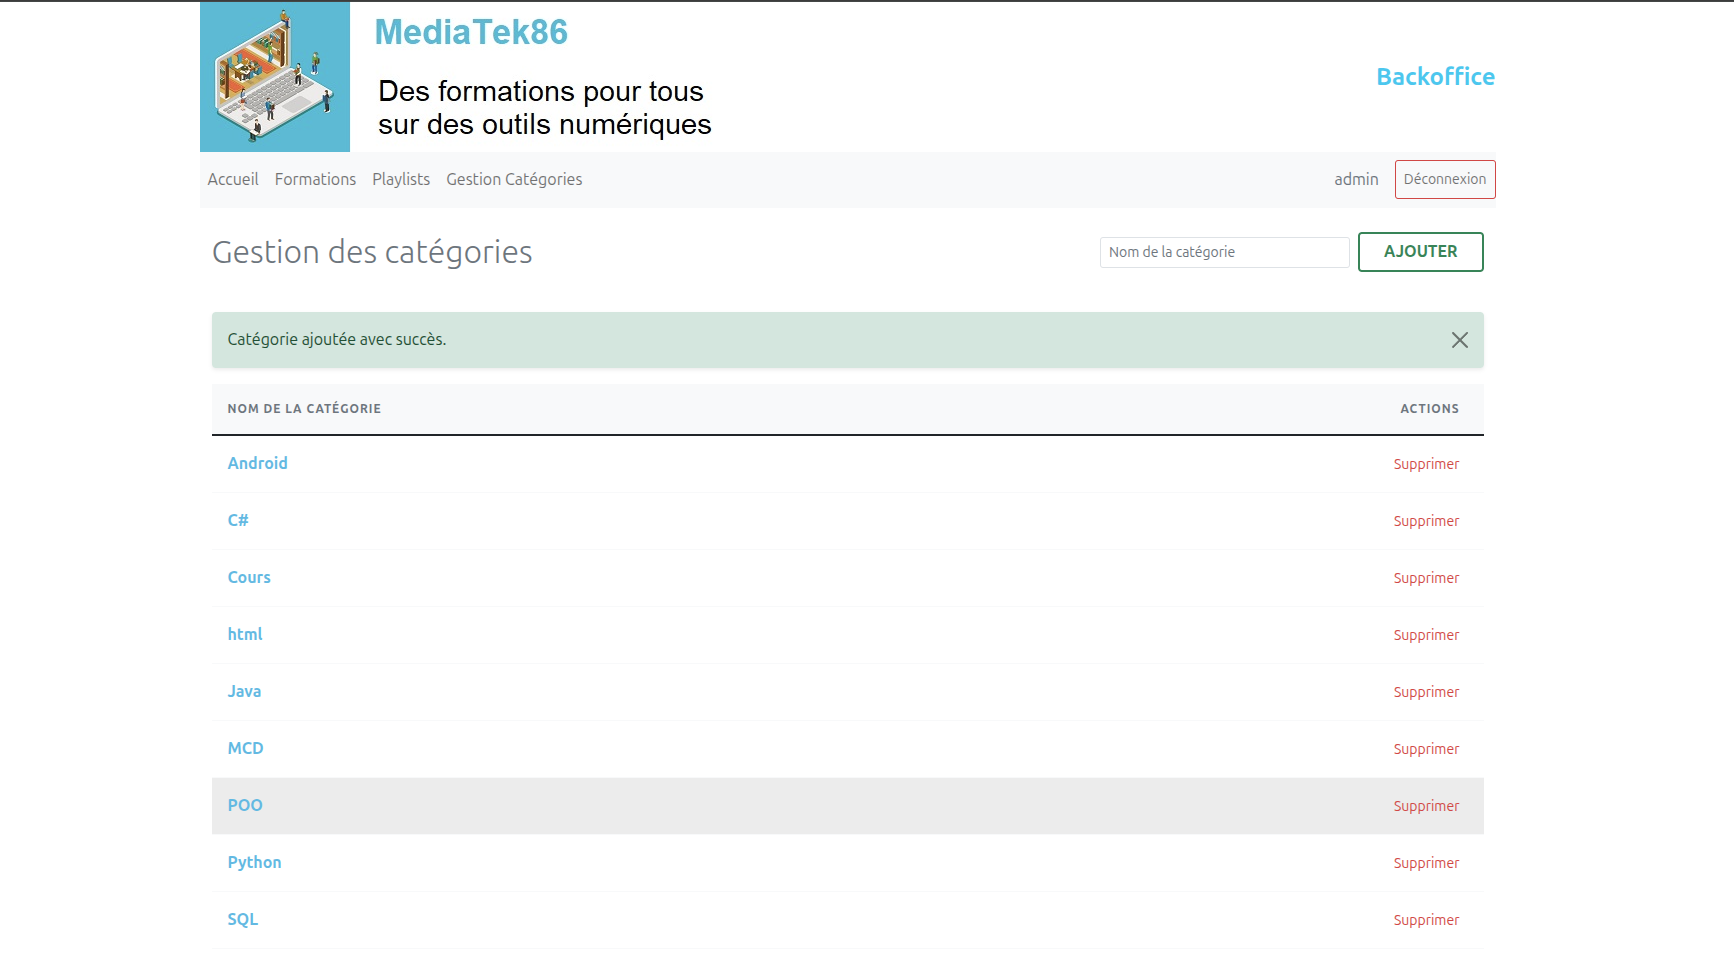
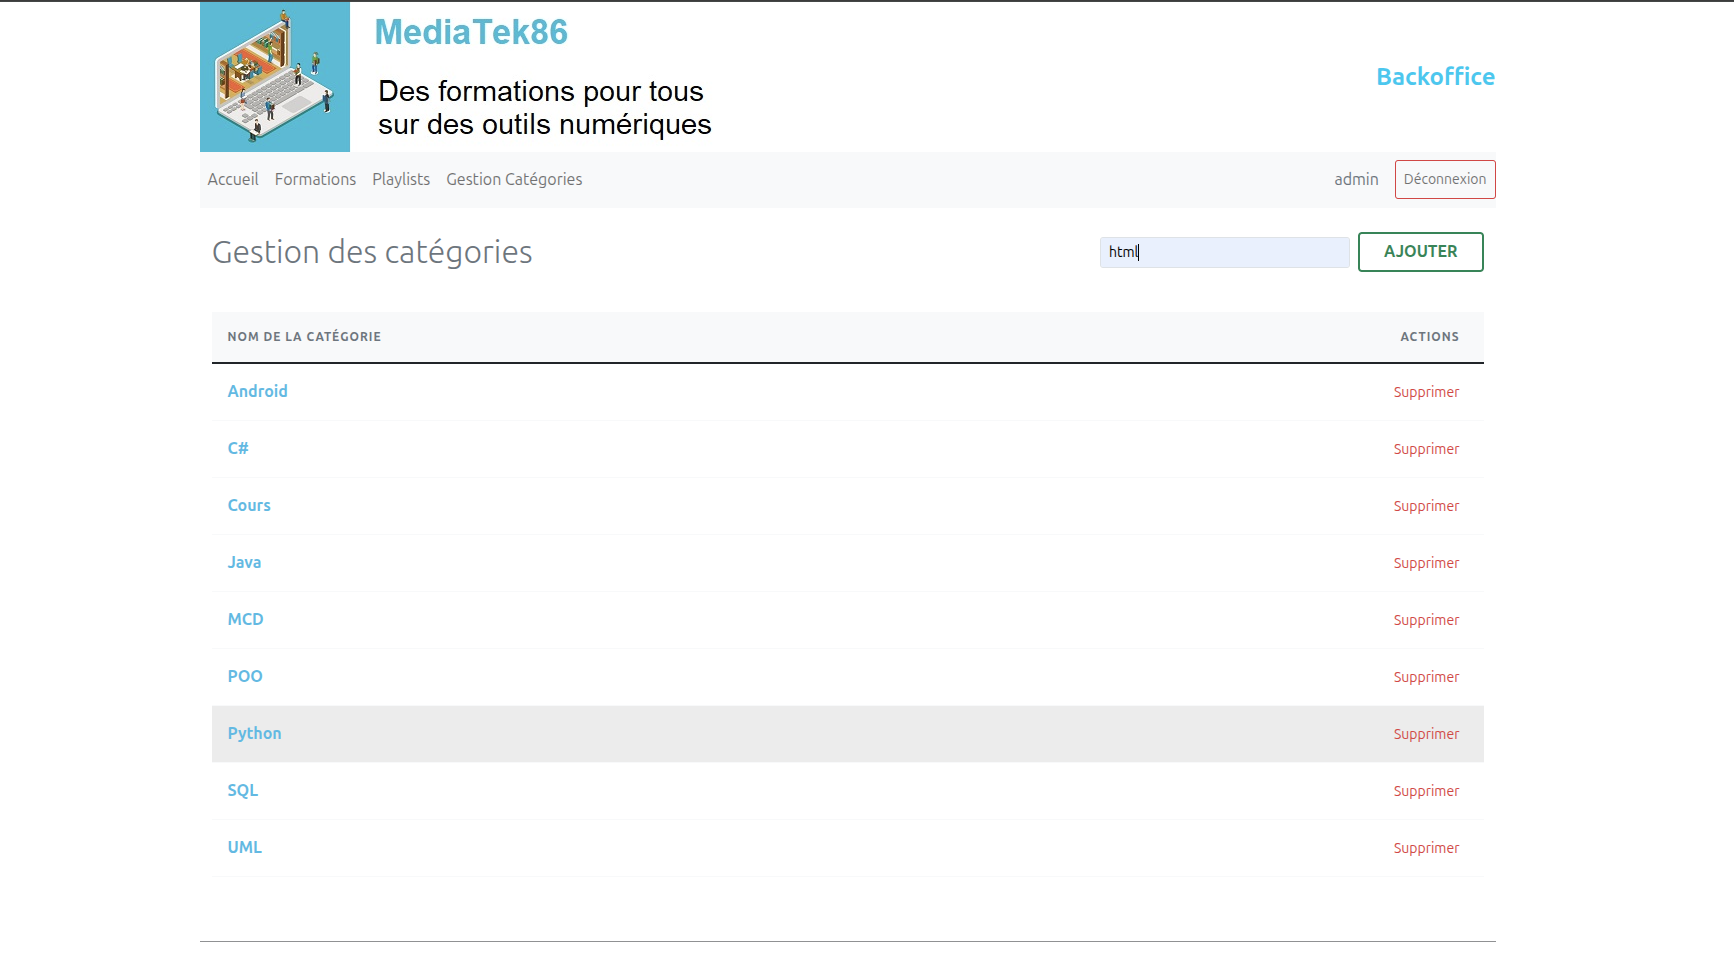
update readme

diff --git a/README.md b/README.md
@@ -47,8 +47,8 @@ En plus des fonctionnalités de consultation (Accueil, Formations, Playlists, CG
 ### 🏷 Gestion des Catégories
 * **Organisation dynamique** : Ajout et suppression des catégories (ex: Java, PHP, Design) pour organiser les contenus de formation.
 
-![Capture Ecran](doc-images/catégories.png)
 ![Capture Ecran](doc-images/ajoutercatégorie.png)
+![Capture Ecran](doc-images/ajoutercatégoriemessage.png)
 ![Capture Ecran](doc-images/supprimercatégorie.png)
 ![Capture Ecran](doc-images/supprimercatégoriemessage.png)
 
